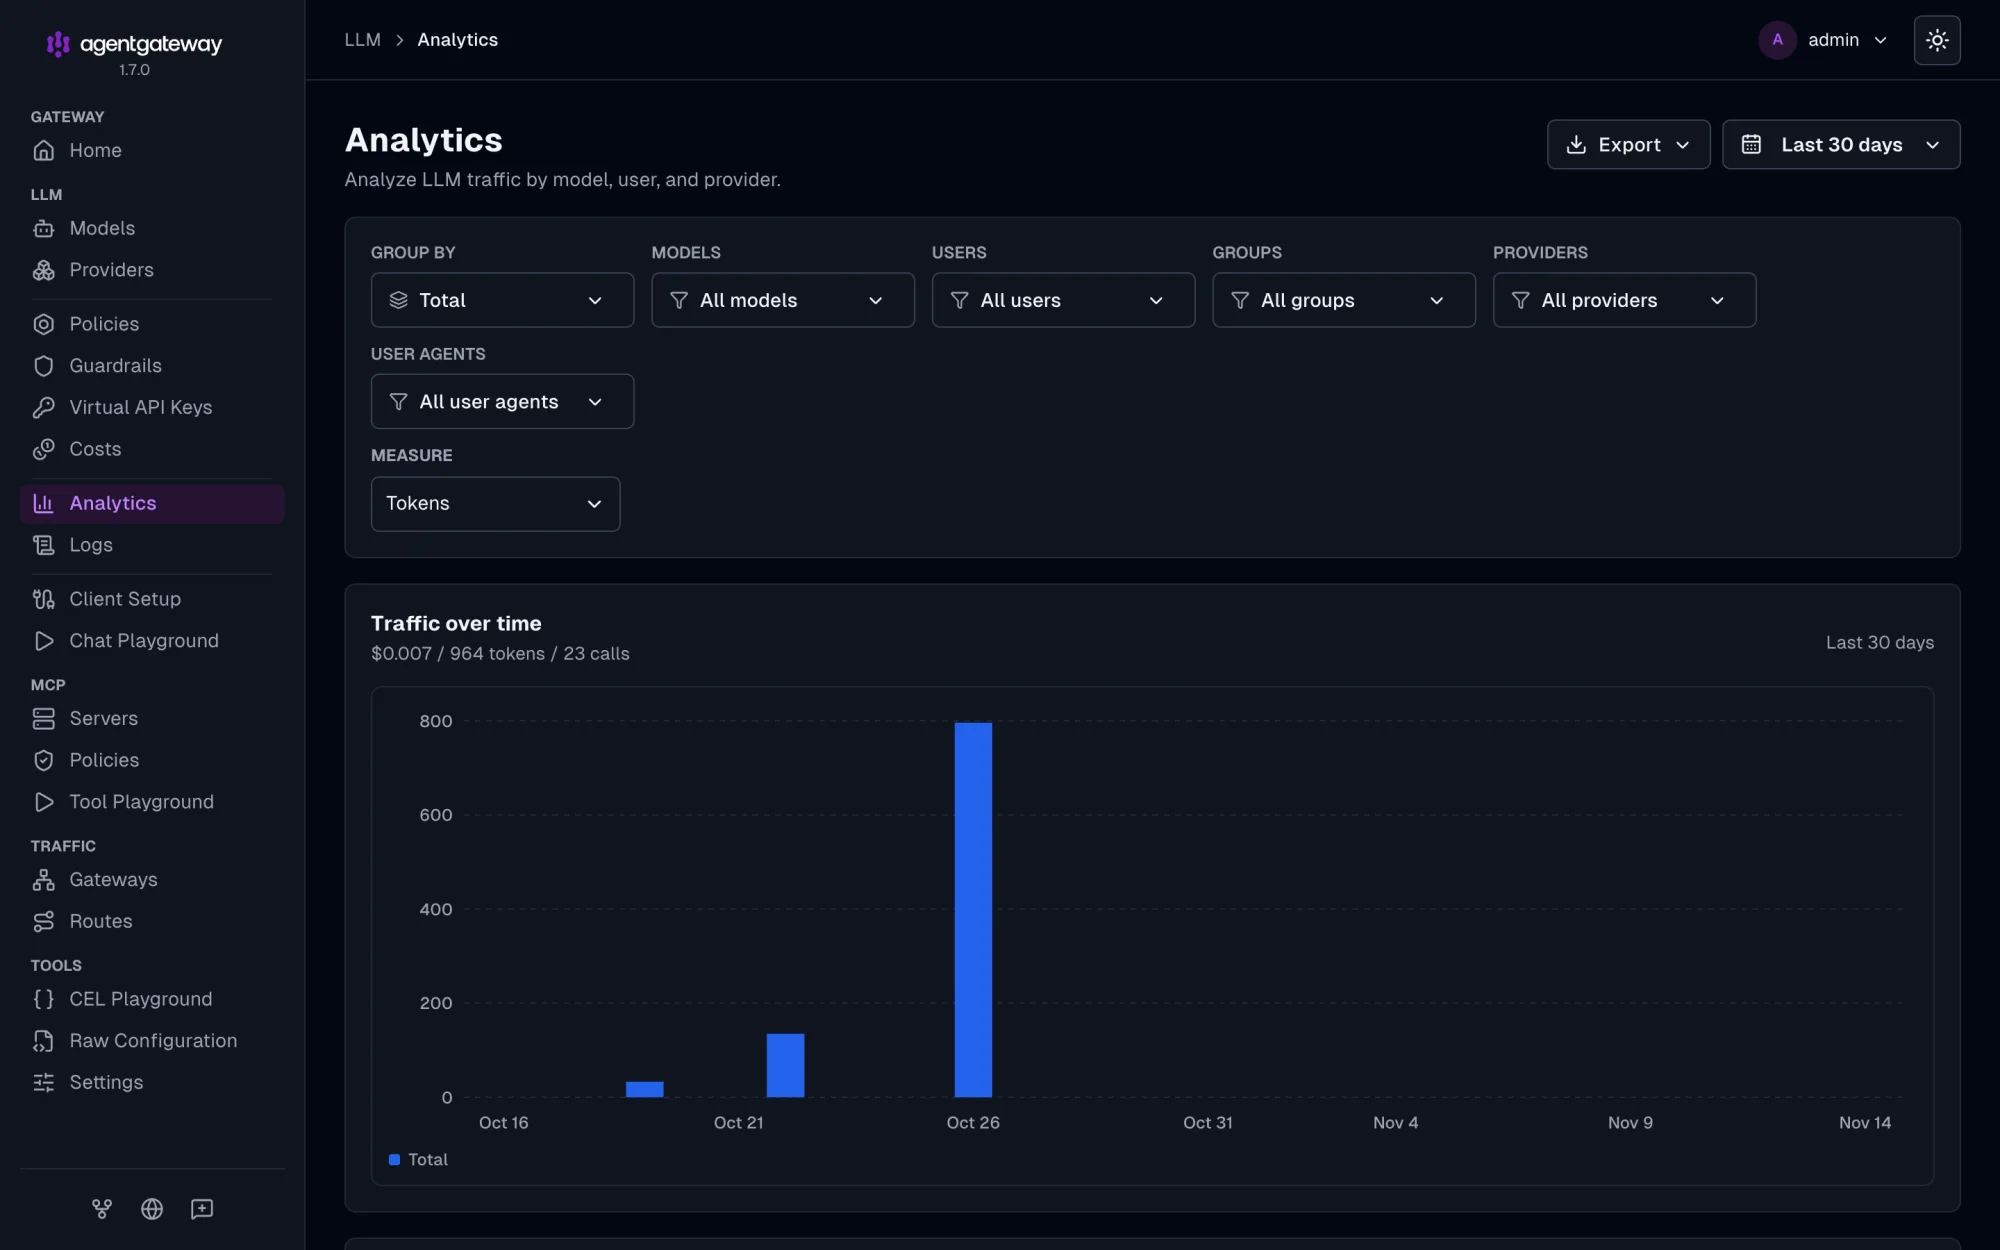
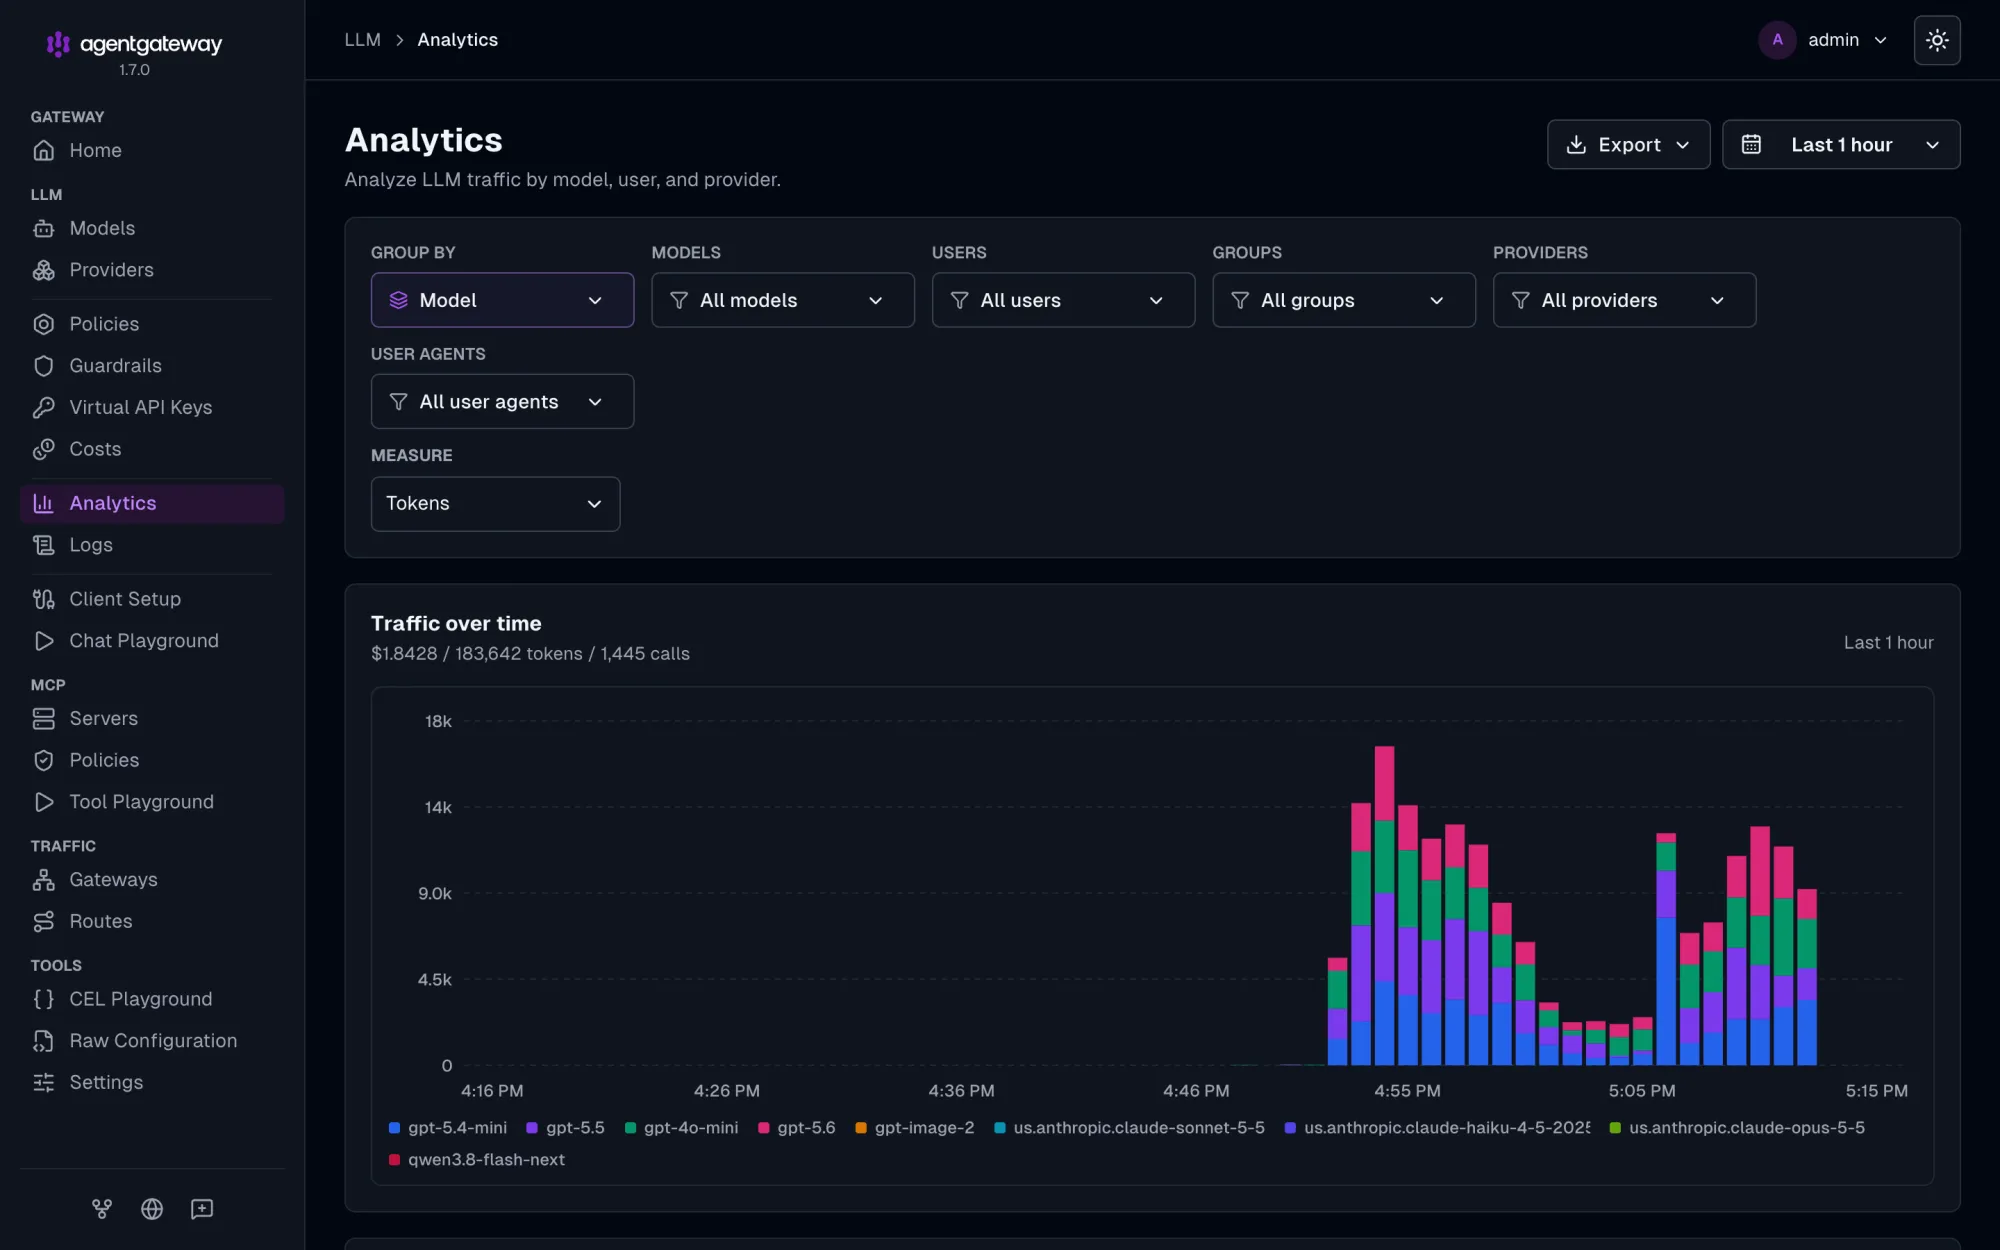
Homepage: tabbed product tour with per-feature media
Replaces the screenshot carousel with a dev.meta.ai-style section: tabs for
LLM Gateway, MCP Gateway, Access, Visibility & Control, and Cost
Optimization; a media panel on the left and an accordion on the right.
Each item can carry its own video or image. Content lives in
data/homepage_features.yaml. Screenshots are fresh captures of the
agentgateway UI with generated demo traffic.

diff --git a/layouts/partials/homepage-v2.html b/layouts/partials/homepage-v2.html
@@ -132,54 +132,52 @@
   </div>
 </section>
 
-<!-- ============ UI TOUR ============ -->
-{{- $tour := slice
-  (dict "id" "models" "title" "LLM models" "body" "Configure the models callers can request and the providers that serve them: OpenAI, Bedrock, and self-hosted models side by side." "href" "/docs/standalone/latest/documentation/llm/")
-  (dict "id" "virtual-api-keys" "title" "Virtual API keys" "body" "Issue keys that callers use to authenticate to the gateway, so every request has an owner that budgets and reports attach to." "href" "/docs/standalone/latest/documentation/llm/cost-controls/virtual-keys/")
-  (dict "id" "costs" "title" "Costs" "body" "Manage the model cost catalogs used for analytics and per-request cost attribution, with your own overrides on top." "href" "/docs/standalone/latest/documentation/llm/cost-controls/")
-  (dict "id" "analytics" "title" "Analytics" "body" "Break down LLM traffic by model, user, group, and provider: tokens, calls, and spend over time." "href" "/docs/standalone/latest/documentation/llm/observability/")
-  (dict "id" "logs" "title" "Logs" "body" "Inspect recent LLM calls with status, latency, tokens, cost, and the full request and response payloads." "href" "/docs/standalone/latest/documentation/llm/observability/")
-}}
-<section id="ui-tour" class="mx-auto max-w-7xl px-6 pb-32">
-  <div class="flex flex-wrap items-end justify-between gap-6">
-    <div class="max-w-2xl">
-      <h2 class="text-4xl font-light tracking-[-0.03em] sm:text-5xl">See every model, key, and dollar.</h2>
-      <p class="mt-5 text-lg font-light text-neutral-600 dark:text-neutral-400">agentgateway ships with a built-in UI for the LLM traffic flowing through it.</p>
-    </div>
+<!-- ============ PRODUCT TOUR ============ -->
+{{- /* Content (tabs, accordion items, images, videos) lives in data/homepage_features.yaml. */ -}}
+{{- $tabs := site.Data.homepage_features.tabs }}
+{{- with $tabs }}
+{{- $first := index (index . 0).items 0 }}
+<section id="product" class="mx-auto max-w-7xl px-6 pb-32" data-pt>
+  <h2 class="mx-auto max-w-3xl text-center text-4xl font-light tracking-[-0.03em] sm:text-5xl">Built for the teams running AI in production.</h2>
+
+  <div role="tablist" aria-label="Product areas" class="-mx-6 mt-14 flex overflow-x-auto border-b border-black/10 px-6 sm:mx-0 sm:px-0 dark:border-white/10">
+    {{- range $i, $t := . }}
+    <button type="button" role="tab" id="pt-tab-{{ $t.id }}" aria-controls="pt-panel-{{ $t.id }}" aria-selected="{{ if eq $i 0 }}true{{ else }}false{{ end }}" tabindex="{{ if eq $i 0 }}0{{ else }}-1{{ end }}" data-pt-tab="{{ $i }}"
+      class="relative shrink-0 whitespace-nowrap px-5 pb-4 pt-2 text-[15px] text-neutral-500 transition-colors after:absolute after:inset-x-0 after:-bottom-px after:h-0.5 after:scale-x-0 after:bg-violet-500 after:transition-transform hover:text-neutral-950 aria-selected:text-violet-600 aria-selected:after:scale-x-100 sm:flex-1 dark:hover:text-white dark:aria-selected:text-violet-400">{{ $t.label }}</button>
+    {{- end }}
   </div>
 
-  <div class="mt-14 grid gap-10 lg:grid-cols-[320px_1fr] lg:gap-14" data-tour>
-    <div role="tablist" aria-label="agentgateway UI tour" class="-mx-6 flex snap-x gap-2 overflow-x-auto px-6 pb-2 lg:mx-0 lg:flex-col lg:gap-1 lg:overflow-visible lg:px-0 lg:pb-0">
-      {{- range $i, $t := $tour }}
-      <button type="button" role="tab" id="tour-tab-{{ $t.id }}" aria-controls="tour-panel-{{ $t.id }}" aria-selected="{{ if eq $i 0 }}true{{ else }}false{{ end }}" data-tour-tab="{{ $i }}"
-        class="group relative shrink-0 snap-start overflow-hidden rounded-2xl border border-transparent px-5 py-4 text-left transition-colors aria-selected:border-black/10 aria-selected:bg-neutral-50 hover:bg-neutral-50 lg:shrink dark:aria-selected:border-white/10 dark:aria-selected:bg-neutral-950 dark:hover:bg-neutral-950">
-        <span class="block whitespace-nowrap text-base font-medium text-neutral-500 group-aria-selected:text-neutral-950 dark:group-aria-selected:text-white">{{ $t.title }}</span>
-        <span class="mt-2 hidden text-sm font-light leading-relaxed text-neutral-600 lg:group-aria-selected:block dark:text-neutral-400">{{ $t.body }}</span>
-        <span aria-hidden="true" class="absolute inset-x-0 bottom-0 h-0.5 origin-left scale-x-0 bg-violet-500 group-aria-selected:transition-transform group-aria-selected:duration-[6000ms] group-aria-selected:ease-linear" data-tour-bar></span>
-      </button>
-      {{- end }}
+  <div class="mt-10 grid gap-6 lg:grid-cols-[minmax(0,1fr)_380px]">
+    <div class="relative">
+      <div aria-hidden="true" class="absolute inset-x-12 -bottom-8 top-12 -z-10 rounded-[40px] bg-violet-500/15 blur-3xl dark:bg-violet-600/20"></div>
+      <div class="relative aspect-[16/10] overflow-hidden rounded-2xl border border-black/10 bg-neutral-100 dark:border-white/10 dark:bg-neutral-900">
+        <img data-pt-img src="{{ $first.image }}" alt="{{ $first.title }}" width="2000" height="1250" class="absolute inset-0 h-full w-full object-cover object-left-top transition-opacity duration-300">
+        <video data-pt-video class="absolute inset-0 hidden h-full w-full object-cover" muted loop playsinline preload="none"></video>
+      </div>
     </div>
 
-    <div class="relative">
-      <div aria-hidden="true" class="absolute inset-x-12 -bottom-8 top-12 -z-10 rounded-[40px] bg-violet-500/20 blur-3xl dark:bg-violet-600/25"></div>
-      <div class="overflow-hidden rounded-2xl border border-black/10 bg-[#0b0d14] shadow-2xl shadow-black/20 dark:border-white/10">
-        <div class="flex items-center gap-2 border-b border-white/5 px-4 py-3">
-          <span class="h-3 w-3 rounded-full bg-white/10"></span><span class="h-3 w-3 rounded-full bg-white/10"></span><span class="h-3 w-3 rounded-full bg-white/10"></span>
-          <span class="ml-3 truncate rounded-md bg-white/5 px-3 py-1 font-geist-mono text-xs text-neutral-500">localhost:15000/ui/llm/<span data-tour-path>models</span></span>
+    <div>
+      {{- range $i, $t := . }}
+      <div role="tabpanel" id="pt-panel-{{ $t.id }}" aria-labelledby="pt-tab-{{ $t.id }}" data-pt-panel="{{ $i }}" class="space-y-3{{ if ne $i 0 }} hidden{{ end }}">
+        {{- range $j, $it := $t.items }}
+        <div class="rounded-2xl bg-neutral-100 transition-colors dark:bg-neutral-900" data-pt-item="{{ $j }}">
+          <button type="button" aria-expanded="{{ if eq $j 0 }}true{{ else }}false{{ end }}" aria-controls="pt-body-{{ $t.id }}-{{ $j }}" data-pt-toggle
+            class="flex w-full items-center justify-between gap-4 px-6 py-5 text-left text-[17px] text-neutral-950 dark:text-white">
+            {{ $it.title }}
+            <svg width="18" height="18" viewBox="0 0 24 24" fill="none" stroke="currentColor" stroke-width="1.8" stroke-linecap="round" aria-hidden="true" class="shrink-0"><path d="M5 12h14"/><path data-pt-vline d="M12 5v14" class="origin-center transition-transform{{ if eq $j 0 }} scale-y-0{{ end }}"/></svg>
+          </button>
+          <div id="pt-body-{{ $t.id }}-{{ $j }}" data-pt-body class="px-6 pb-6{{ if ne $j 0 }} hidden{{ end }}">
+            <p class="text-[15px] font-light leading-relaxed text-neutral-600 dark:text-neutral-400">{{ $it.body }}</p>
+            {{- with $it.href }}<a href="{{ . }}" class="mt-4 inline-block text-sm font-medium text-violet-600 hover:underline dark:text-violet-400">Learn more →</a>{{ end }}
+          </div>
         </div>
-        <div class="relative aspect-[16/10]">
-          {{- range $i, $t := $tour }}
-          <img id="tour-panel-{{ $t.id }}" role="tabpanel" aria-labelledby="tour-tab-{{ $t.id }}" data-tour-panel="{{ $i }}"
-            src="/img/homepage/ui/{{ $t.id }}.webp" alt="agentgateway UI: {{ $t.title }} page" width="2000" height="1250" loading="lazy"
-            class="absolute inset-0 h-full w-full object-cover object-left-top transition-opacity duration-500 {{ if eq $i 0 }}opacity-100{{ else }}opacity-0{{ end }}">
-          {{- end }}
-        </div>
+        {{- end }}
       </div>
-      <p class="mt-4 text-sm font-light text-neutral-600 lg:hidden dark:text-neutral-400" data-tour-caption>{{ (index $tour 0).body }}</p>
-      <a href="{{ (index $tour 0).href }}" data-tour-link class="mt-4 inline-block text-sm font-medium text-neutral-600 hover:text-neutral-950 dark:text-neutral-400 dark:hover:text-white">Read the <span data-tour-name>{{ (index $tour 0).title }}</span> docs →</a>
+      {{- end }}
     </div>
   </div>
 </section>
+{{- end }}
 
 <!-- ============ CAPABILITIES ============ -->
 <section class="border-t border-black/5 dark:border-white/5">
@@ -336,54 +334,60 @@
     }, 2400);
   }
 
-  var tour = document.querySelector('[data-tour]');
-  if (tour) {
-    var tabs = tour.querySelectorAll('[data-tour-tab]');
-    var panels = tour.querySelectorAll('[data-tour-panel]');
-    var path = tour.querySelector('[data-tour-path]');
-    var caption = tour.querySelector('[data-tour-caption]');
-    var bodies = {{ $tour | jsonify | safeJS }};
-    var cur = 0, timer = null, paused = false;
-    var reduce = window.matchMedia('(prefers-reduced-motion: reduce)').matches;
-    function show(n) {
-      cur = n;
-      tabs.forEach(function (t, i) {
-        t.setAttribute('aria-selected', i === n ? 'true' : 'false');
-        t.tabIndex = i === n ? 0 : -1;
-        var bar = t.querySelector('[data-tour-bar]');
-        bar.classList.remove('scale-x-100');
-        if (i === n && !paused && !reduce) { void bar.offsetWidth; bar.classList.add('scale-x-100'); }
-      });
-      panels.forEach(function (p, i) {
-        p.classList.toggle('opacity-100', i === n);
-        p.classList.toggle('opacity-0', i !== n);
-      });
-      if (path) path.textContent = bodies[n].id === 'virtual-api-keys' ? 'keys' : bodies[n].id;
-      if (caption) caption.textContent = bodies[n].body;
-      var link = tour.querySelector('[data-tour-link]');
-      if (link) { link.href = bodies[n].href; link.querySelector('[data-tour-name]').textContent = bodies[n].title; }
+  var pt = document.querySelector('[data-pt]');
+  if (pt) {
+    var data = {{ site.Data.homepage_features.tabs | jsonify | safeJS }};
+    var tabs = pt.querySelectorAll('[data-pt-tab]');
+    var panels = pt.querySelectorAll('[data-pt-panel]');
+    var img = pt.querySelector('[data-pt-img]');
+    var vid = pt.querySelector('[data-pt-video]');
+    var curTab = 0;
+    function media(t, j) {
+      var tab = data[t], it = tab.items[j] || {};
+      var v = it.video || tab.video, im = it.image || tab.image;
+      if (v) {
+        if (vid.getAttribute('src') !== v) { vid.src = v; }
+        if (im) vid.poster = im;
+        vid.classList.remove('hidden'); img.classList.add('hidden');
+        var pr = vid.play(); if (pr && pr.catch) pr.catch(function () {});
+      } else {
+        vid.pause(); vid.classList.add('hidden'); img.classList.remove('hidden');
+        if (im && img.getAttribute('src') !== im) { img.style.opacity = '0'; img.src = im; img.alt = it.title || ''; }
+      }
     }
-    function schedule() {
-      clearInterval(timer);
-      if (paused || reduce) return;
-      timer = setInterval(function () { show((cur + 1) % tabs.length); }, 6000);
-    }
-    tabs.forEach(function (t, i) {
-      t.addEventListener('click', function () {
-        paused = true; clearInterval(timer); show(i);
+    img.addEventListener('load', function () { img.style.opacity = '1'; });
+    function openItem(t, j) {
+      panels[t].querySelectorAll('[data-pt-item]').forEach(function (el, k) {
+        var open = k === j;
+        el.querySelector('[data-pt-toggle]').setAttribute('aria-expanded', open ? 'true' : 'false');
+        el.querySelector('[data-pt-body]').classList.toggle('hidden', !open);
+        el.querySelector('[data-pt-vline]').classList.toggle('scale-y-0', open);
       });
-      t.addEventListener('keydown', function (e) {
-        var d = (e.key === 'ArrowDown' || e.key === 'ArrowRight') ? 1 : (e.key === 'ArrowUp' || e.key === 'ArrowLeft') ? -1 : 0;
-        if (!d) return;
-        e.preventDefault(); paused = true; clearInterval(timer);
-        var n = (cur + d + tabs.length) % tabs.length; show(n); tabs[n].focus();
+      media(t, j);
+    }
+    function selectTab(t) {
+      curTab = t;
+      tabs.forEach(function (b, i) { b.setAttribute('aria-selected', i === t ? 'true' : 'false'); b.tabIndex = i === t ? 0 : -1; });
+      panels.forEach(function (p, i) { p.classList.toggle('hidden', i !== t); });
+      openItem(t, 0);
+    }
+    tabs.forEach(function (b, i) {
+      b.addEventListener('click', function () { selectTab(i); });
+      b.addEventListener('keydown', function (e) {
+        var d = e.key === 'ArrowRight' ? 1 : e.key === 'ArrowLeft' ? -1 : 0;
+        if (!d) return; e.preventDefault();
+        var n = (curTab + d + tabs.length) % tabs.length; selectTab(n); tabs[n].focus();
       });
     });
-    if ('IntersectionObserver' in window) {
-      new IntersectionObserver(function (es) {
-        es.forEach(function (en) { if (en.isIntersecting && !paused) { show(cur); schedule(); } else { clearInterval(timer); } });
-      }, { threshold: 0.3 }).observe(tour);
-    } else { show(0); schedule(); }
+    panels.forEach(function (p, t) {
+      p.querySelectorAll('[data-pt-toggle]').forEach(function (btn, j) {
+        btn.addEventListener('click', function () { openItem(t, j); });
+      });
+    });
+    // Warm the cache for the other screenshots once the page is idle.
+    (window.requestIdleCallback || setTimeout)(function () {
+      data.forEach(function (tab) { tab.items.forEach(function (it) { if (it.image) { var i = new Image(); i.src = it.image; } }); });
+    });
   }
   var btn = document.getElementById('hp2-copy');
   if (btn) btn.addEventListener('click', function () {
